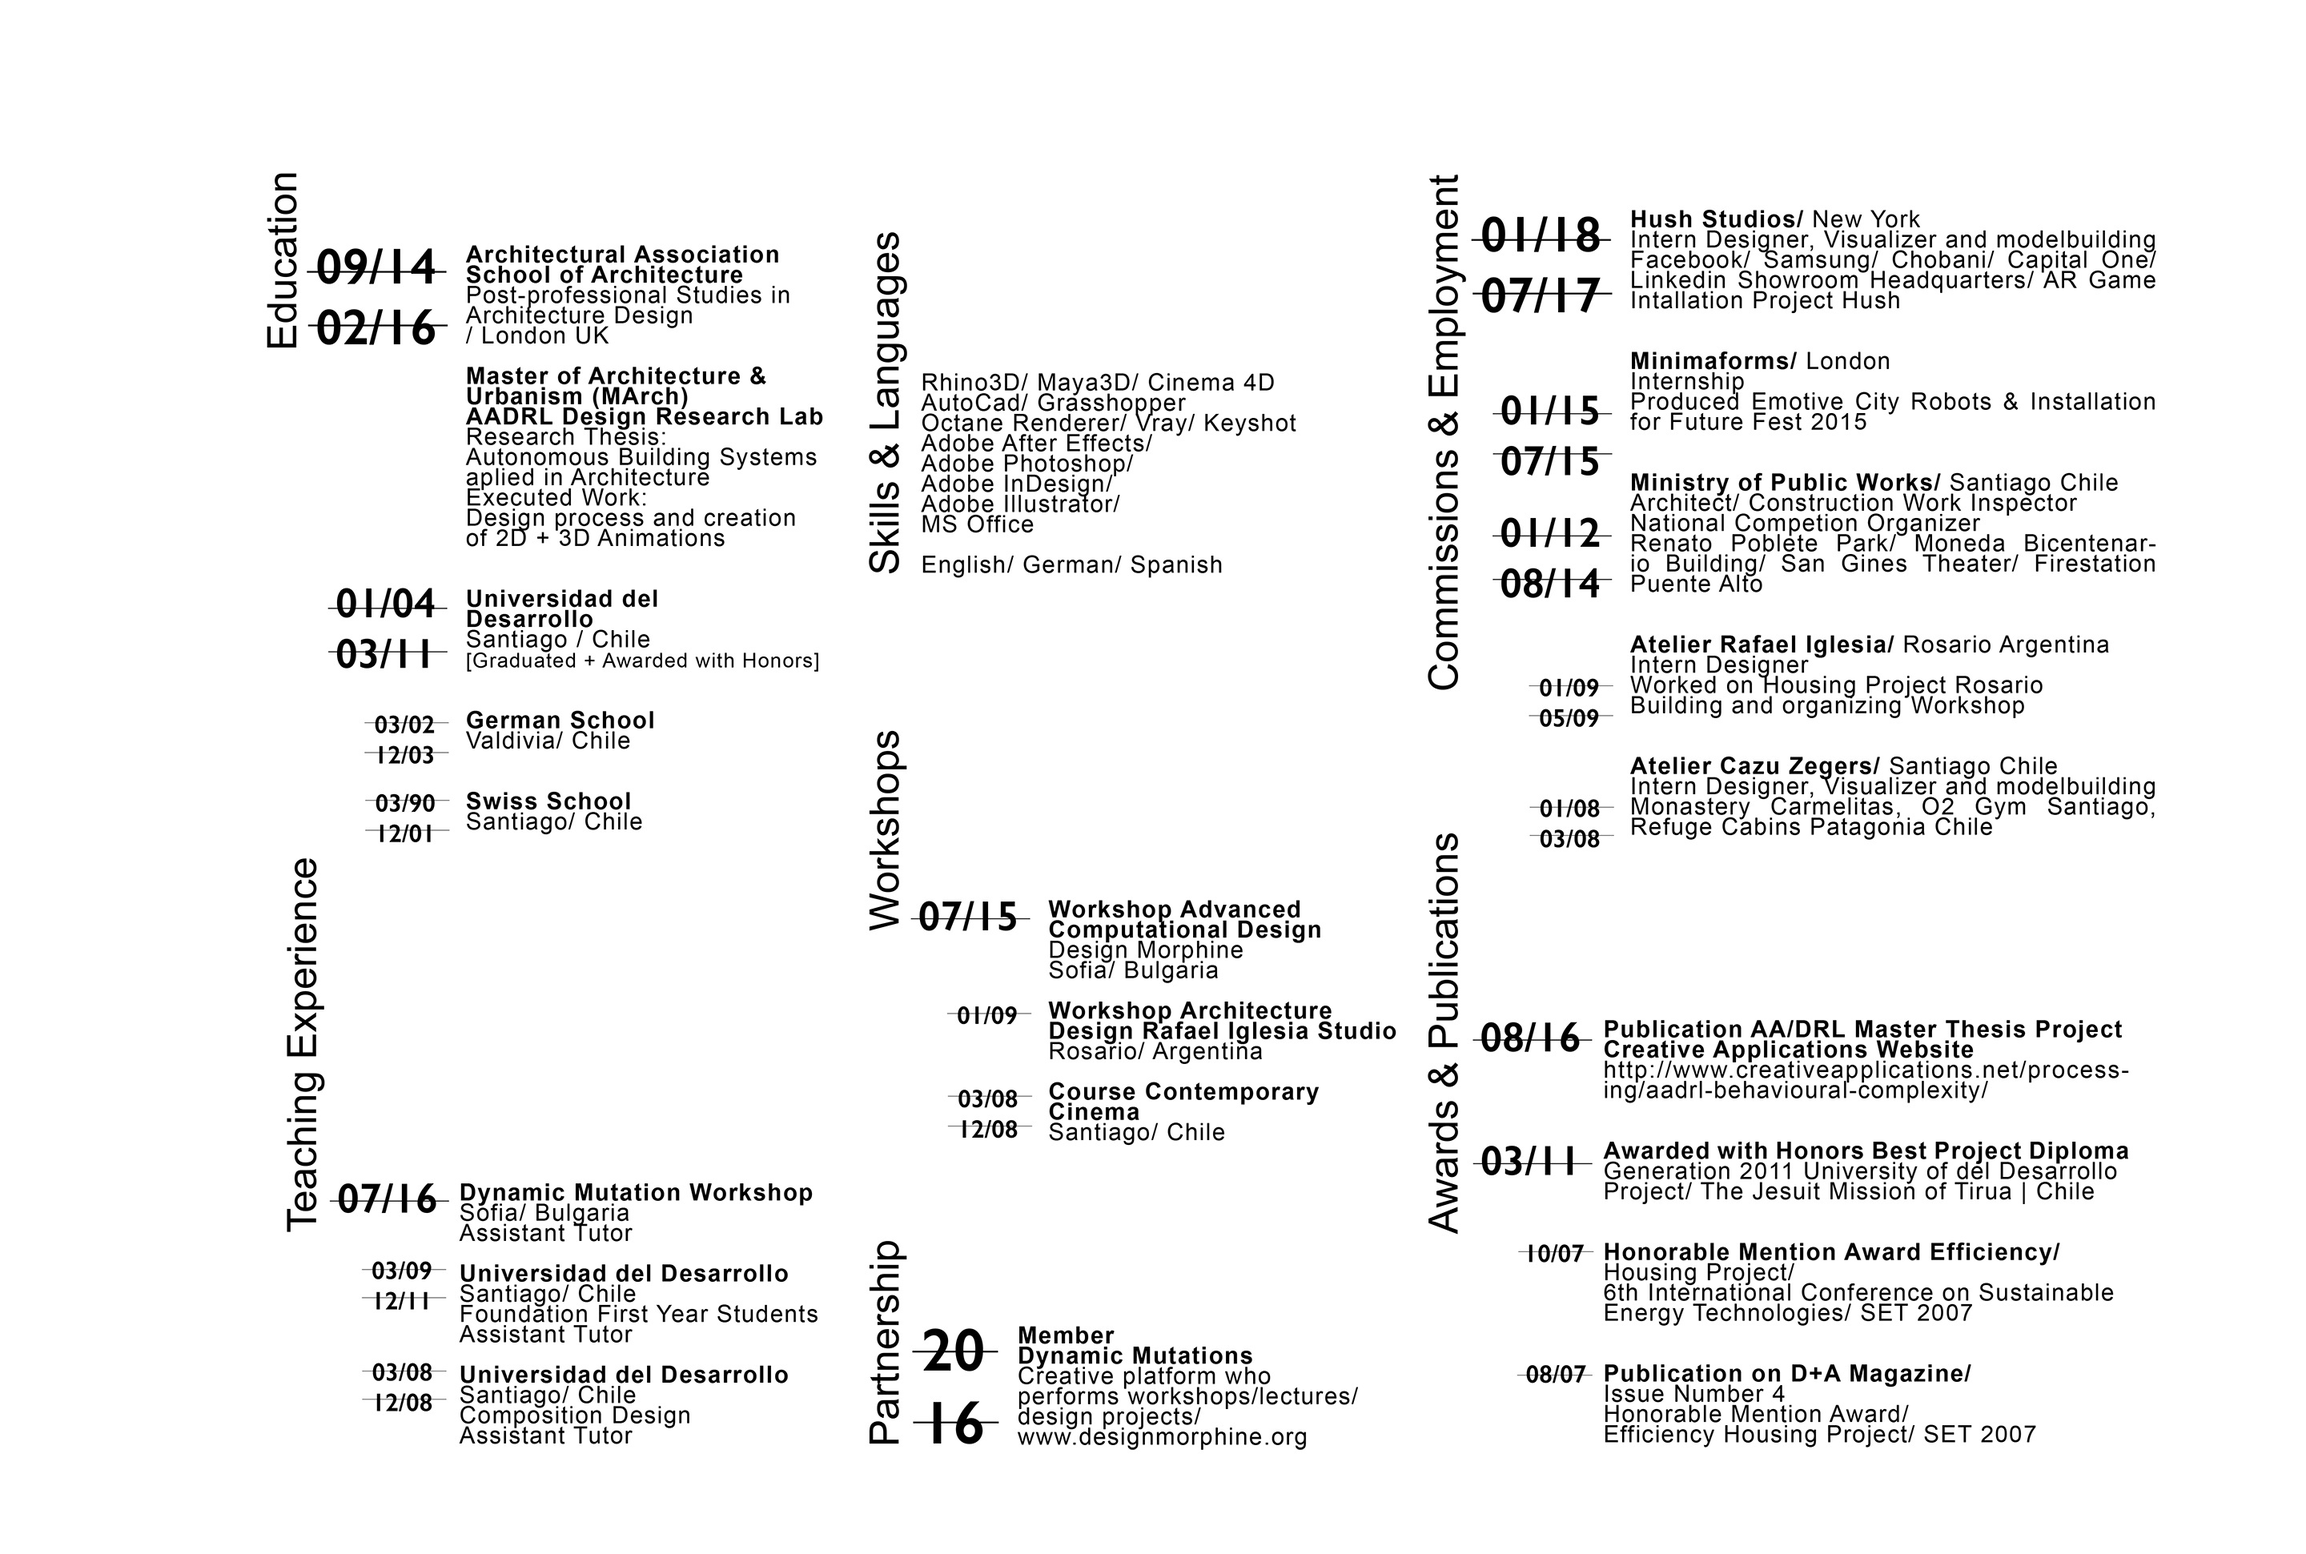
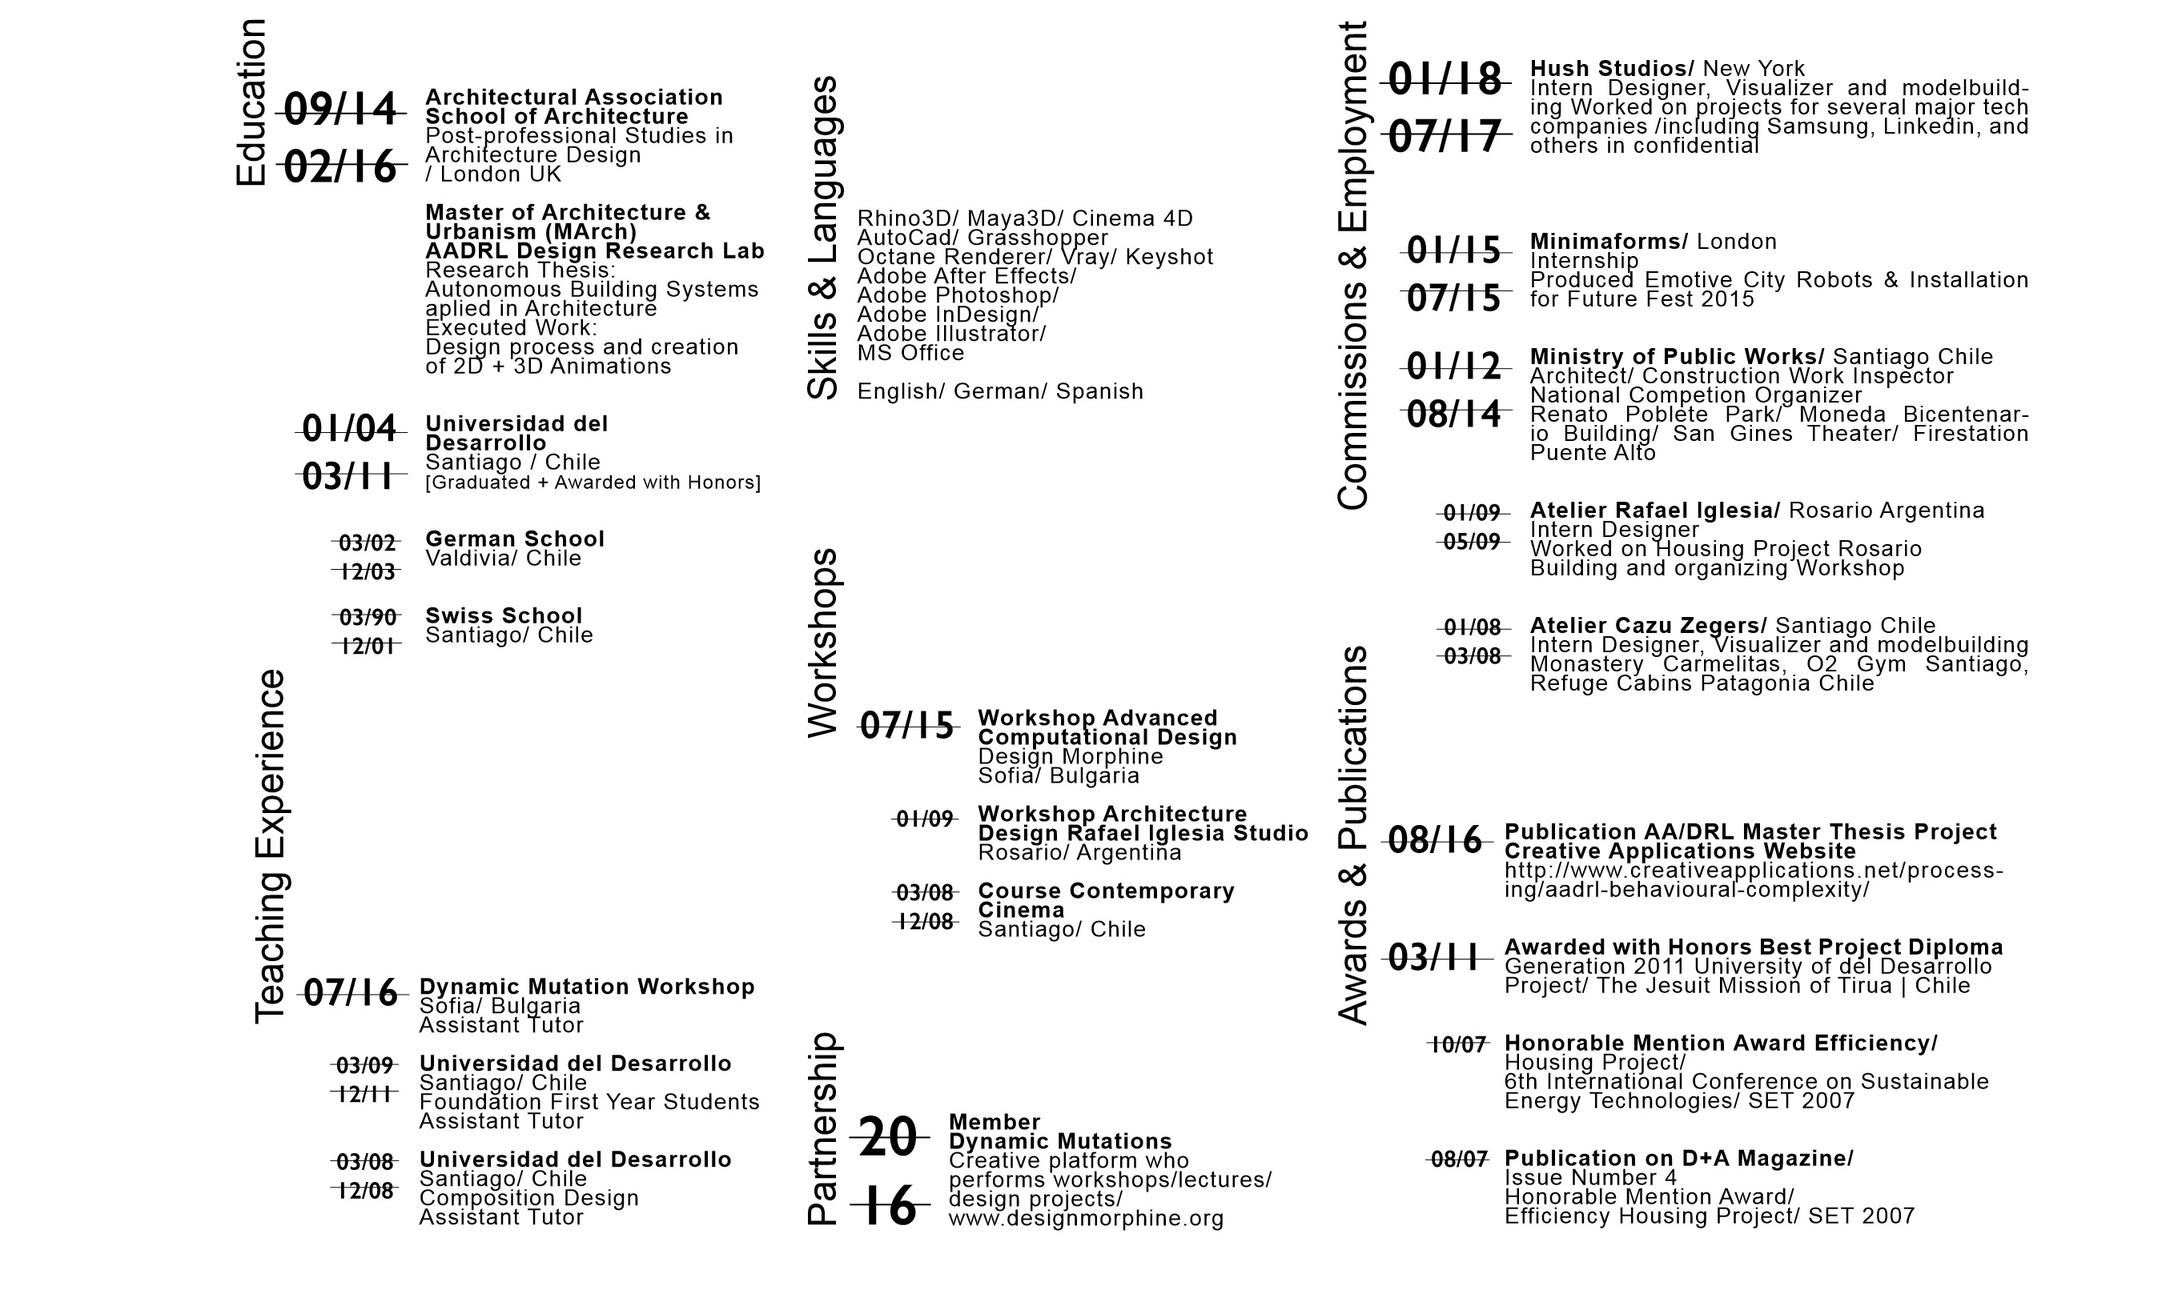
alinment

Changed region(s): [[0.3743, 0.031, 0.9358, 0.9615], [0.0936, 0.031, 0.5927, 0.9615]]

diff --git a/avm.css b/avm.css
@@ -115,8 +115,8 @@ body{
     /*display: none;*/
     position: absolute;
     width: 100%;
-    top: 50%;
-    border-bottom: solid white;
+    top: 53%;
+    border-bottom: 1.5px solid white;
 
 }
 
@@ -134,14 +134,14 @@ body{
 
 .blackLine{
 
-    border-bottom: solid black;
+    border-bottom:  1.5px solid black;
 
 }
 
 #leftRowContainer{
 
     vertical-align: top;
-    margin-top: 5%;
+    margin-top: 7%;
     margin-left: 15%;
     margin-right: 5%;
     margin-bottom: 5%;
@@ -156,7 +156,7 @@ body{
 #rightRowContainer{
 
     vertical-align: top;
-    margin-top: 5%;
+    margin-top: 7%;
     margin-bottom: 5%;
     display: inline-block;
     /*background-color: blue;*/
@@ -369,30 +369,42 @@ body{
 .titleContainer{
 
     /*background-color: red;*/
-    position: fixed;
+    position: absolute;
     right: 90%;
     top: 10%;
     cursor: crosshair;
     z-index: 99;
 
+
 }
 
-.titleText{
+.rotateContainer{
+
 
     white-space: nowrap;
-    font-size: 60pt;
     transform: rotate(-90deg);
     transform-origin: right bottom 0;
     vertical-align: middle;
 
 }
 
+.titleText{
+
+    position: relative;
+    white-space: nowrap;
+    font-size: 60pt;
+    vertical-align: middle;
+
+}
+
 .titleCube{
 
-
+    position: relative;
+    margin-top: 5px;
+    margin-right: 5px;
     transform : rotate(-90deg);
     width:60px;
-
+    vertical-align: middle;
 
 }
 

diff --git a/about.html b/about.html
@@ -30,14 +30,14 @@
 
 <div class="titleContainer">
 
-    <div class="titleText">
+    <div class="rotateContainer">
         <img id="cube" class="titleCube" src="pics/Cube.png">
-        <div class="inline">Astrid von Mühlenbrock<div class="selectLine blackLine"></div></div>
+        <div class="inline titleText">Astrid von Mühlenbrock<div class="selectLine blackLine"></div></div>
     </div>
 
 </div>
 
-<img src="pics/about.jpg" style="margin-left: 5%;width: 95%">
+<img src="pics/about.jpg" style="margin-top: 9%;margin-left: 5%;margin-bottom: 5%;width: 95%">
 <div class="end">
     <br><br>
     <h3 class="endP">about</h3>

diff --git a/index.html b/index.html
@@ -31,10 +31,9 @@
 <div id="background"><div class="bg-overlay"></div></div>
 
 <div class="titleContainer">
-
-    <div class="titleText">
+    <div class="rotateContainer">
         <img id="cube" class="titleCube" src="pics/Cube0.png">
-        <div class="inline white">Astrid von Mühlenbrock<div class="selectLine"></div></div>
+        <div class="inline white titleText">Astrid von Mühlenbrock<div class="selectLine"></div></div>
     </div>
 
 </div>

diff --git a/contact.html b/contact.html
@@ -42,9 +42,9 @@
 </div>
 <div class="titleContainer">
 
-    <div class="titleText">
+    <div class="rotateContainer">
         <img id="cube" class="titleCube" src="pics/Cube.png">
-        <div class="inline">Astrid von Mühlenbrock<div class="selectLine blackLine"></div></div>
+        <div class="inline titleText">Astrid von Mühlenbrock<div class="selectLine blackLine"></div></div>
     </div>
 
 </div>

diff --git a/work.html b/work.html
@@ -32,9 +32,9 @@
 
 <div class="titleContainer">
 
-    <div class="titleText">
+    <div class="rotateContainer">
         <img id="cube" class="titleCube" src="pics/Cube.png">
-        <div class="inline">Astrid von Mühlenbrock<div class="selectLine blackLine"></div></div>
+        <div class="inline titleText">Astrid von Mühlenbrock<div class="selectLine blackLine"></div></div>
     </div>
 
 </div>

diff --git a/menu.js b/menu.js
@@ -100,6 +100,7 @@ function adapt() {
         $('.yearText').css({'font-size':'40pt','line-height':'30pt'});
         $('.detailProject').css({'font-size':'40pt'});
 
+
     }else{
 
 
